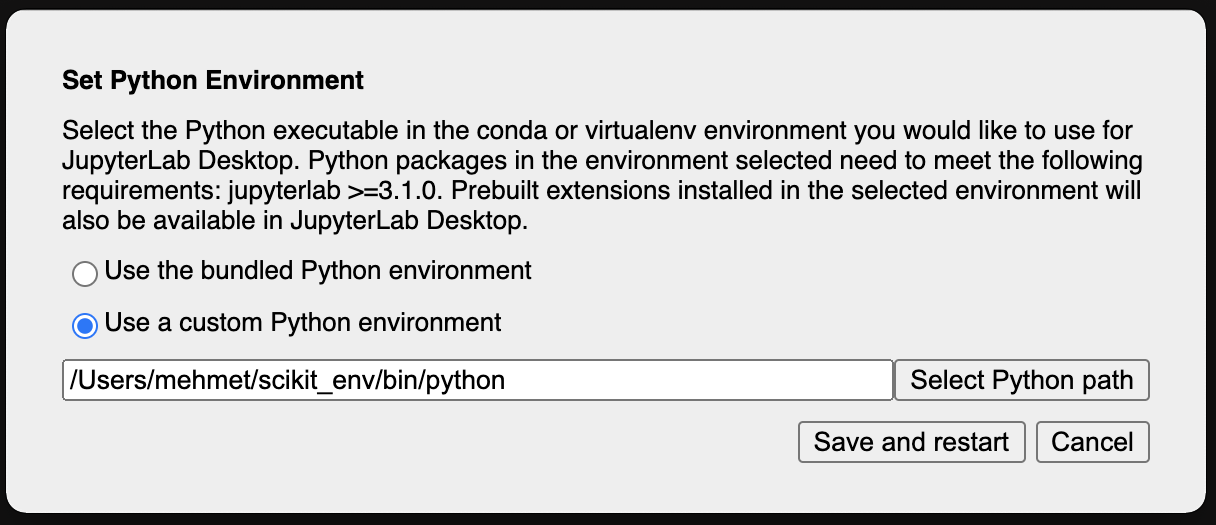
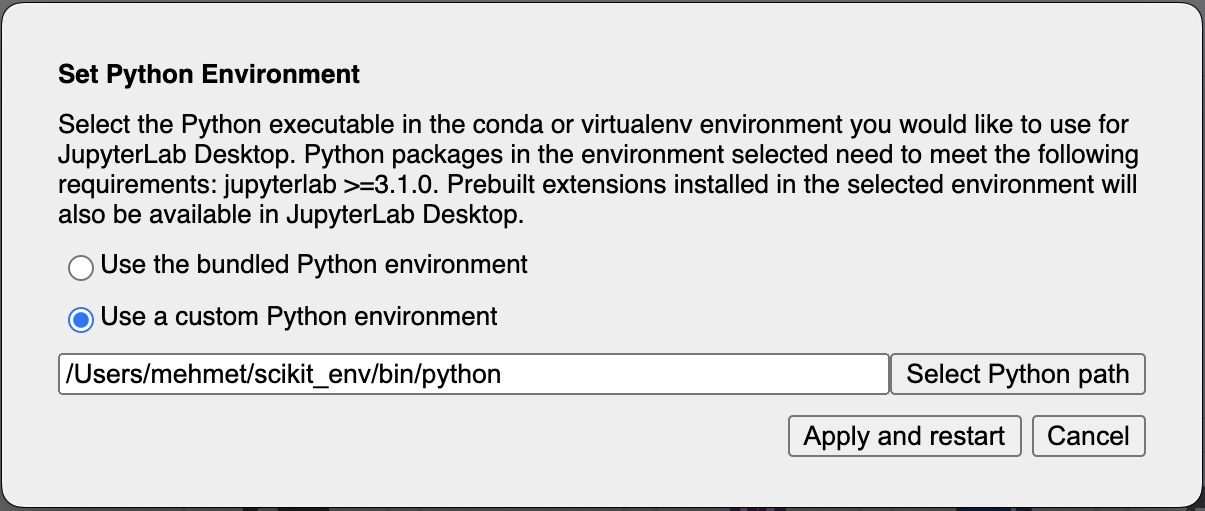
update documentation

Changed region(s): [[0.0, 0.0, 1.0, 1.0], [0.3685, 0.411, 0.4299, 0.4403]]

diff --git a/user-guide.md b/user-guide.md
@@ -14,14 +14,14 @@ JupyterLab Desktop comes with a bundled Python environment which has the essenti
 
 - Select the Python executable (`python.exe` on Windows and `python` on macOS & Linux) of the custom environment you would like to use. Python executable can be found at the root directory of the virtual environment on Windows and in then `bin` directory of the environment on macOS & Linux.
 
-- Click `Save and restart` to apply the changes. Newly selected environment will be checked for compatibility before applying the changes and you will be notified of any incompatibility issues.
+- Click `Apply and restart` to apply the changes. Newly selected environment will be checked for compatibility before applying the changes and you will be notified of any incompatibility issues.
 
 Python environment selection is saved in application settings and restored at application launch time. During launch, compatibility of the Python environment is checked and if found incompatible, Python environment selector dialog is shown to allow switching back to the bundled environment or using another compatible environment.
 
 Application settings are stored in JSON format in the following locations. You can check the `pythonPath` setting in this file for troubleshooting. Setting it to empty string will cause JupyterLab Desktop to reset to the bundled Python environment.
 
 - Windows: `%APPDATA%\jupyterlab-desktop\jupyterlab-desktop-data`
-- macOS: `~/Library/Application\ Support/jupyterlab-desktop/jupyterlab-desktop-data`
+- macOS: `~/Library/jupyterlab-desktop/jupyterlab-desktop-data`
 - Linux: `$XDG_CONFIG_HOME/jupyterlab-desktop/jupyterlab-desktop-data` or `~/.config/jupyterlab-desktop/jupyterlab-desktop-data`
 
 ## How to create a Custom Python Environment
@@ -53,29 +53,15 @@ JupyterLab Desktop is a self-contained standalone desktop application which bund
 
 ## Linux Instructions
 
-On Linux, JupyterLab Desktop is installed into `/opt/JupyterLab` and Python environment is created in `/opt/JupyterLab/resources/jlab_server`
-
-- Install the application by double clicking the installer file and wait for the installation to finish.
-- Linux installs JupyterLab Desktop as the root user. That's why it is necessary to change the ownership to the current user to be able to customize JupyterLab Desktop's Python environment.
-- Before launching JupyterLab Desktop, open a Terminal and run the following command with your `username` to change application file system ownership.
-
-```bash
-sudo chown -R username:username /opt/JupyterLab
-```
+On Linux, JupyterLab Desktop is installed into `/opt/JupyterLab` and Python environment is created in `~/.config/jupyterlab-desktop/jlab_server`
 
 ## macOS Instructions
 
-On macOS, JupyterLab Desktop should be installed into `~/Applications/JupyterLab` for current user in order to allow environment customizations. Python environment is created in `~/Applications/JupyterLab.app/Contents/Resources/jlab_server`.
-
-- Make sure you install the application for current user in order to allow changes to the bundled Python environment. It is not the default location of the installer, you can set it by following these steps
-
-| Change Install Location                                    | Install for me only                                            |
-| ---------------------------------------------------------- | -------------------------------------------------------------- |
-| ![Choose Install Location](media/mac-install-location.png) | ![Choose Current User](media/mac-install-for-current-user.png) |
+On macOS, JupyterLab Desktop is installed into `/Applications/JupyterLab` and Python environment is created in `~/Library/jupyterlab-desktop/jlab_server`.
 
 ## Windows Instructions
 
-On Windows, JupyterLab Desktop should be installed to default install location `C:\JupyterLab\`. There will be two installers running during setup. Keep the default paths for both installers. Python environment is created in `C:\JupyterLab\resources\jlab_server`.
+On Windows, there are two installers, one of them is run during initial setup for the main JupyterLab Desktop applicationa and the other one is run when a Python environment needs to be installed. Both of them should be installed to their default install locations. It is `C:\JupyterLab\` for JupyterLab Desktop and `C:\Users\<username>\AppData\Roaming\jupyterlab-desktop\jlab_server` for JupyterLab Desktop Server.
 
 # Installing New Python Packages
 
@@ -95,49 +81,44 @@ Make sure you installed JupyterLab Desktop following the steps outlined above in
 
 ## Debian, Ubuntu Linux
 
-For versions 3.1.18-1 and newer
-
 ```bash
 sudo apt-get purge jupyterlab-desktop # remove application
 rm /usr/bin/jlab # remove command symlink
-```
 
-For versions 3.1.13-1 and older
-
-```bash
-sudo apt-get purge jupyterlab-app
+# to remove application cache and bundled Python environment
+rm -rf ~/.config/jupyterlab-desktop
 ```
 
 ## Red Hat, Fedora, SUSE Linux
 
-For versions 3.1.18-1 and newer
-
 ```bash
 sudo rpm -e jupyterlab-desktop # remove application
 rm /usr/bin/jlab # remove command symlink
-```
 
-For versions 3.1.13-1 and older
-
-```bash
-sudo rpm -e jupyterlab_app
+# to remove application cache and bundled Python environment
+rm -rf ~/.config/jupyterlab-desktop
 ```
 
 ## macOS
 
-Find the application installation `JupyterLab.app` in Finder (in ~/Applications or /Applications) and move to Trash by using `CMD + Delete`. Clean other application generated files using:
+Find the application installation `JupyterLab.app` in Finder (in /Applications or ~/Applications) and move to Trash by using `CMD + Delete`. Clean other application generated files using:
 
-For versions 3.1.18-1 and newer
+For versions 3.3.2-2 and newer
 
 ```bash
-rm -rf ~/Library/Application\ Support/jupyterlab-desktop # remove application cache and session files
 rm /usr/local/bin/jlab # remove command symlink
+
+# to remove application cache and bundled Python environment
+rm -rf ~/Library/jupyterlab-desktop
 ```
 
-For versions 3.1.13-1 and older
+For versions 3.3.2-1 and older
 
 ```bash
-rm -rf ~/Library/Application\ Support/jupyterlab_app # remove application cache and session files
+rm /usr/local/bin/jlab # remove command symlink
+
+# to remove application cache and bundled Python environment
+rm -rf ~/Library/Application\ Support/jupyterlab-desktop
 ```
 
 ## Windows
@@ -151,6 +132,8 @@ On Windows, JupyterLab Desktop is installed in two parts, one for the python env
 - Then uninstall JupyterLab Desktop application
 
 <img src="media/uninstall-windows-application.png" alt="Uninstall the application" height=200 />
+
+In order to remove application cache and bundled Python environment delete `C:\Users\<username>\AppData\Roaming\jupyterlab-desktop` directory.
 
 # Configuration
 

diff --git a/README.md b/README.md
@@ -14,7 +14,7 @@ Before installing please read the [Python Environment Customization Guide](user-
 
 - [Debian, Ubuntu Linux Installer](https://github.com/jupyterlab/jupyterlab-desktop/releases/latest/download/JupyterLab-Setup-Debian.deb)
 - [Red Hat, Fedora, SUSE Linux Installer](https://github.com/jupyterlab/jupyterlab-desktop/releases/latest/download/JupyterLab-Setup-Fedora.rpm)
-- [macOS Installer](https://github.com/jupyterlab/jupyterlab-desktop/releases/latest/download/JupyterLab-Setup-macOS.pkg)
+- [macOS Installer](https://github.com/jupyterlab/jupyterlab-desktop/releases/latest/download/JupyterLab-Setup-macOS.dmg)
 - [Windows Installer](https://github.com/jupyterlab/jupyterlab-desktop/releases/latest/download/JupyterLab-Setup-Windows.exe)
 
 ## Launching JupyterLab Desktop
@@ -44,7 +44,7 @@ By default JupyterLab Desktop will only load and write to Jupyter configuration 
 
 - `%APPDATA%\jupyterlab-desktop` on Windows
 - `$XDG_CONFIG_HOME/jupyterlab-desktop` or `~/.config/jupyterlab-desktop` on Linux
-- `~/Library/Application\ Support/jupyterlab-desktop` on macOS
+- `~/Library/jupyterlab-desktop` on macOS
 
 ignoring any other Jupyter configuration which may be present in standard Jupyter paths as defined by `jupyter --paths`.
 This includes `jupyter-server` settings, `jupyterlab` settings and workspaces, and any other configuration which would
@@ -110,13 +110,13 @@ JupyterLab Desktop bundles JupyterLab front-end and a conda environment as Jupyt
 
   Installer will be created in one of `env_installer/JupyterLabDesktopAppServer<version>-MacOSX-x86_64.sh`, `env_installer/JupyterLabDesktopAppServer-<version>-Linux-x86_64.sh`, `env_installer/JupyterLabDesktopAppServer-<version>-Windows-x86_64.exe` based on your platform
 
-- Run the installer to install the JupyterLab Desktop Server. Make sure to set install location to `jlab_server` directory that is at the same level as `jupyterlab-desktop` project source code
-
 - Now you can launch the JupyterLab Desktop locally using:
 
   ```bash
   yarn start
   ```
+
+  If JupyterLab Desktop does not find a compatible Python environment configured, it will prompt for installation using JupyterLab Desktop Server installer or let you choose a custom environment on your computer at first launch.
 
 ## Building for distribution
 
@@ -138,7 +138,7 @@ JupyterLab Desktop bundles JupyterLab front-end and a conda environment as Jupyt
   yarn dist:<platform>
   ```
 
-  Application Installer will be created in `dist/JupyterLab.pkg` (macOS), `dist/JupyterLab.deb` (Debian, Ubuntu), `dist/JupyterLab.rpm` (Red Hat, Fedora) and `dist/JupyterLab-Setup.exe` (Windows) based on the platform
+  Application Installer will be created in `dist/JupyterLab.dmg` (macOS), `dist/JupyterLab.deb` (Debian, Ubuntu), `dist/JupyterLab.rpm` (Red Hat, Fedora) and `dist/JupyterLab-Setup.exe` (Windows) based on the platform
 
 ## Release Instructions
 

diff --git a/.github/ISSUE_TEMPLATE/bug_report.md b/.github/ISSUE_TEMPLATE/bug_report.md
@@ -40,7 +40,7 @@ https://jupyterlab.readthedocs.io/en/latest/getting_started/issue.html
 
 - Operating System and version: <!-- e.g. Linux Ubuntu 21.04 -->
 - JupyterLab-Desktop version: <!-- e.g. 3.1.7-2 -->
-- Installer: <!-- .exe, .deb, .pkg, .rpm, .snap, .flatpak -->
+- Installer: <!-- .exe, .deb, .dmg, .pkg, .rpm, .snap, .flatpak -->
 
 <!--The more content you provide, the more we can help!-->
 
